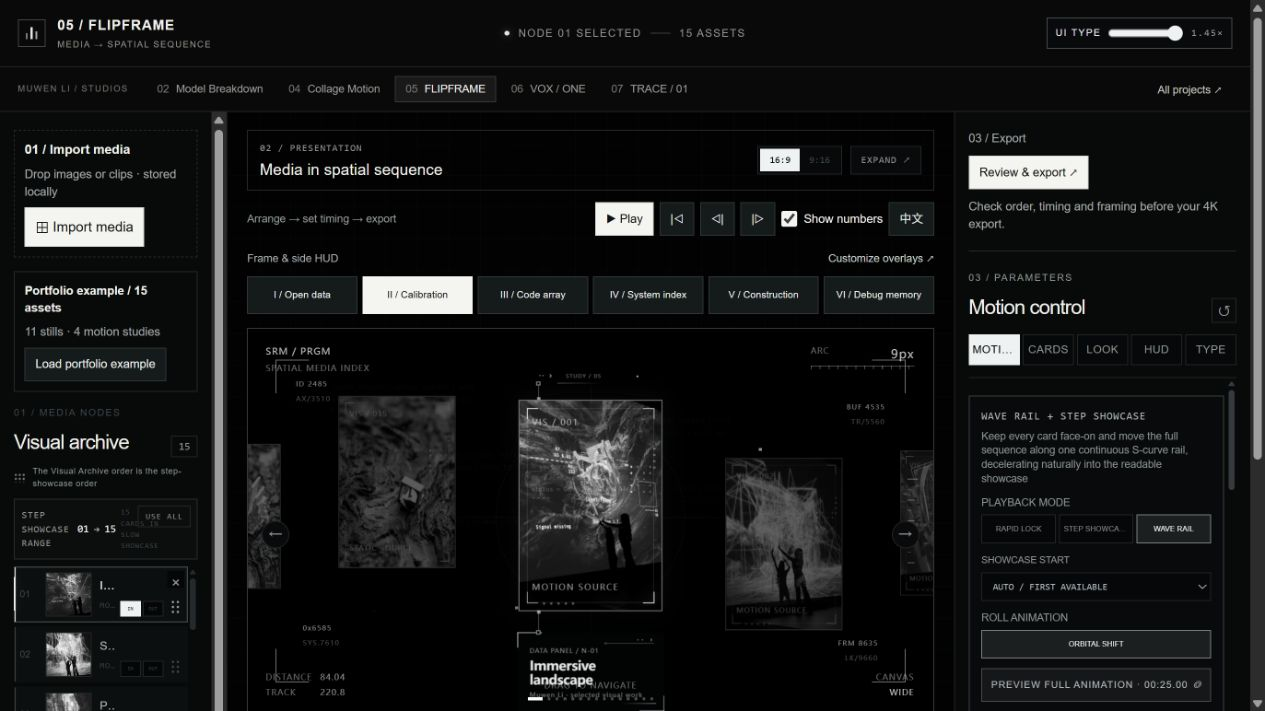
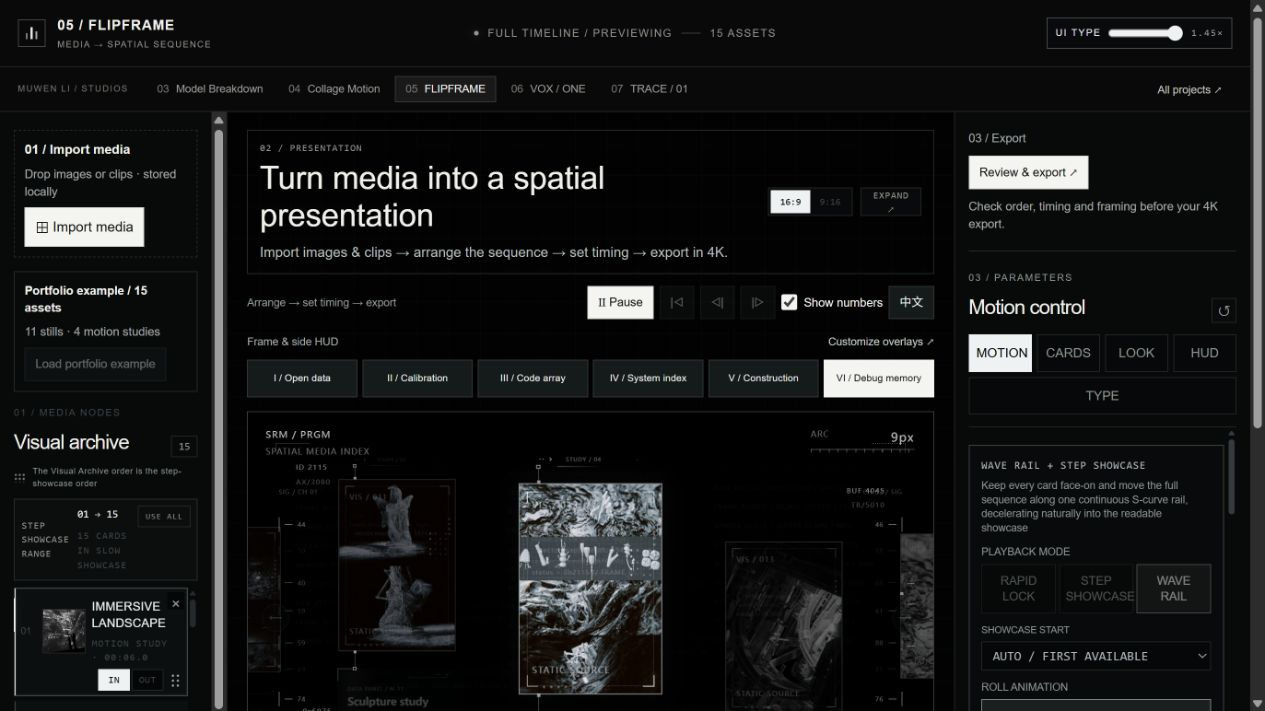
Clarify studio entrances, project order and delivery evidence

diff --git a/docs/collage-motion/index.html b/docs/collage-motion/index.html
@@ -9,7 +9,7 @@
   <div><h1>04 / COLLAGE MOTION <small>MOVING SHOTS → EDITABLE STORYBOARD</small></h1>
   <p><strong>Animated storyboard / shot review &amp; visual pitches.</strong> Compare moving shots, adjust the board, then export a silent review.</p></div>
   <nav class="portfolio-nav" aria-label="Project navigation"><a href="https://github.com/MuwenTriLi/creative-workflows/blob/main/projects/03-collage-motion.md">Project overview ↗</a><a href="https://github.com/MuwenTriLi/creative-workflows#selected-work">All projects ↗</a></nav>
-</header><nav class="family-nav" aria-label="Creative workflow studios"><span>MUWEN LI / STUDIOS</span><a href="https://meshroom-breakdown-studio.limuwen9.chatgpt.site"><b>02</b>Model Breakdown</a><a href="https://muwentrili.github.io/creative-workflows/collage-motion/" aria-current="page"><b>04</b>Collage Motion</a><a href="https://flipframe-motion-lab.limuwen9.chatgpt.site"><b>05</b>FLIPFRAME</a><a href="https://vox-one.limuwen9.chatgpt.site"><b>06</b>VOX / ONE</a><a href="https://trace-01-motion-tracker.limuwen9.chatgpt.site"><b>07</b>TRACE / 01</a></nav>
+</header><nav class="family-nav" aria-label="Creative workflow studios"><span>MUWEN LI / STUDIOS</span><a href="https://meshroom-breakdown-studio.limuwen9.chatgpt.site"><b>03</b>Model Breakdown</a><a href="https://muwentrili.github.io/creative-workflows/collage-motion/" aria-current="page"><b>04</b>Collage Motion</a><a href="https://flipframe-motion-lab.limuwen9.chatgpt.site"><b>05</b>FLIPFRAME</a><a href="https://vox-one.limuwen9.chatgpt.site"><b>06</b>VOX / ONE</a><a href="https://trace-01-motion-tracker.limuwen9.chatgpt.site"><b>07</b>TRACE / 01</a></nav>
 <div id="landscape-collage-editor" lang="zh-CN">
   <style>
     #landscape-collage-editor {
@@ -639,6 +639,7 @@
 </aside>
       <section class="stage-column" aria-label="画面预览与素材位置">
         <div class="workspace-heading"><strong>02 / 编排与预览</strong><span>调整右侧参数，再拖动时间轴检查效果。</span></div>
+        <div class="studio-purpose" style="padding:12px 0 18px"><h1 style="font:500 26px/1.2 Arial,Helvetica,sans-serif;margin:0 0 8px">在一张分镜板上比较动态镜头</h1><p style="font:14px/1.5 Arial,Helvetica,sans-serif;color:#b7c2bd;margin:0">导入片段 → 编排与标注镜头 → 比较动态 → 导出 4K 分镜板。</p></div>
         <div class="review-look" aria-label="Presentation overlays"><span>02 / Presentation</span><button type="button" id="rv-presentation" aria-pressed="true">Original HUD</button><button type="button" id="rv-clean" aria-pressed="false">Clean board</button><button type="button" id="rv-customize">Customize overlays ↗</button></div>
         <div class="review-page"><button type="button" id="rv-prev" aria-label="Previous board page">←</button><output id="rv-page-label">Shots 1–20 / 40</output><button type="button" id="rv-next" aria-label="Next board page">→</button><span>Shot IDs &amp; HUD are included in export.</span></div>
         <div class="board-mode" role="group" aria-label="Presentation mode"><button id="sb-storyboard" type="button" aria-pressed="true">Storyboard</button><button id="sb-collage" type="button" aria-pressed="false">Motion collage</button><span id="sb-mode-note">Compare shots side by side.</span></div>
@@ -1769,6 +1770,8 @@
       window.addEventListener("touchmove", markHeavyInteraction, { passive: true });
 
       const UI_TRANSLATIONS = {
+        "在一张分镜板上比较动态镜头": "Compare moving shots on one storyboard",
+        "导入片段 → 编排与标注镜头 → 比较动态 → 导出 4K 分镜板。": "Import clips → arrange and label shots → compare motion → export a 4K review board.",
         "01 / 导入素材": "01 / Import media",
         "03 / 导出": "03 / Export",
         "拖入图片或视频，或选择文件。下一个位置": "Drop images or clips here. Next slot",

diff --git a/README.md b/README.md
@@ -17,8 +17,8 @@ My focus is the connection between production craft and product decisions: autom
 | Project | Problem → approach | Format | Open |
 | --- | --- | --- | --- |
 | **01 · [Steampunk Clockwork](https://github.com/MuwenTriLi/steampunk-clockwork-showcase)** | Repeated mechanical setup → reusable assemblies & editable motion | Blender assets + Skill | [Superhive product ↗](https://superhivemarket.com/products/steampunk-clockwork-animated-assets) |
-| **02 · [Model Breakdown Studio](https://github.com/MuwenTriLi/model-breakdown-studio)** | Hard-to-read 3D assemblies → explode, isolate & explain | MIT code + browser tool | [Open web app ↗](https://meshroom-breakdown-studio.limuwen9.chatgpt.site) |
-| **03 · [Blue / White Architecture Growth](projects/blue-white-architecture-growth.md)** | Company aesthetics → reusable styling & staged construction | Company workflow case | [Watch selected films](docs/architecture-growth-media.md#watch-the-selected-films) |
+| **02 · [Blue / White Architecture Growth](projects/blue-white-architecture-growth.md)** | Company aesthetics → reusable styling & staged construction | Company workflow case | [Watch selected films](docs/architecture-growth-media.md#watch-the-selected-films) |
+| **03 · [Model Breakdown Studio](https://github.com/MuwenTriLi/model-breakdown-studio)** | Hard-to-read 3D assemblies → explode, isolate & explain | MIT code + browser tool | [Open web app ↗](https://meshroom-breakdown-studio.limuwen9.chatgpt.site) |
 | **04 · [Collage Motion](projects/03-collage-motion.md)** | Scattered shot previews → an editable moving storyboard | Browser tool | [Open web app ↗](https://muwentrili.github.io/creative-workflows/collage-motion/) |
 | **05 · [FLIPFRAME](projects/04-flipframe.md)** | Media sequencing & pacing → editable spatial presentation | Browser tool | [Open web app ↗](https://flipframe-motion-lab.limuwen9.chatgpt.site) |
 | **06 · [VOX / ONE](projects/05-vox-one.md)** | Speech/type synchronization → editable timed typography | Browser tool | [Open web app ↗](https://vox-one.limuwen9.chatgpt.site) |
@@ -26,7 +26,7 @@ My focus is the connection between production craft and product decisions: autom
 
 **Current review:** bounded exports were checked for Model Breakdown and VOX. The revised Collage 35-shot 4K board and FLIPFRAME 4K sequences pass their stated timing checks. TRACE retains an export-timing issue. [Read the exact scope](docs/functional-review.md).
 
-**Try first:** Model Breakdown Studio opens with Wood House and offers three supplied GLB examples, plus local import. Collage Motion opens with 35 selected moving shots and six original white HUD styles. FLIPFRAME opens with 15 supplied visuals; VOX offers a silent typography demo; TRACE offers a video with a static pin. Each has a visible import action and a public entrance. The demos illustrate their workflows; they do not substitute for real-speech or tracking validation. Architecture Growth presents completed illoca work and its production method; company source and Skill files are not distributed.
+**Try first:** Model Breakdown Studio opens with Press Manufacturing Line in an exploded view and offers three supplied GLB examples, plus local import. Collage Motion opens with 35 selected moving shots and six original white HUD styles. FLIPFRAME opens by playing Orbital Shift with 15 supplied visuals; VOX offers a silent typography demo; TRACE starts with an empty import canvas: choose your video, then select target 01 or position a static anchor. Each has a visible import action and a public entrance. The demos illustrate their workflows; they do not substitute for real-speech or tracking validation. Architecture Growth presents completed illoca work and its production method; company source and Skill files are not distributed.
 
 ## 01 / Clockwork — detail preview
 
@@ -44,35 +44,47 @@ My design direction and model collection became a reusable Blender library, with
 
 [Full case study](https://github.com/MuwenTriLi/steampunk-clockwork-showcase) · [Control reference](https://github.com/MuwenTriLi/steampunk-clockwork-showcase/blob/main/docs/controls.md) · [Workflow + Skill](https://github.com/MuwenTriLi/steampunk-clockwork-showcase/blob/main/docs/workflow-skill.md)
 
-## 02 / Model Breakdown Studio — interactive preview
+## 02 / Architecture Growth — company production case
 
-<table>
-<tr>
-<td width="48%" valign="top"><a href="https://meshroom-breakdown-studio.limuwen9.chatgpt.site"><img src="https://raw.githubusercontent.com/MuwenTriLi/model-breakdown-studio/main/docs/media/example-library.png" alt="Model Breakdown Studio with three GLB examples and selected production-line component" width="420"></a></td>
-<td width="52%" valign="top"><b>Turn a 3D model into an explanation.</b><br><br>Inspect components, compose an exploded view, highlight parts and arrange motion.<br><br><b><a href="https://meshroom-breakdown-studio.limuwen9.chatgpt.site">Open the interactive app →</a></b><br>No sign-in required. Choose Wood House or either production line, or import your own GLB.<br><br><a href="https://github.com/MuwenTriLi/model-breakdown-studio">Read the case study</a> · <a href="https://github.com/MuwenTriLi/model-breakdown-studio#try-it-in-one-minute">One-minute walkthrough</a></td>
-</tr>
-</table>
+**A shared visual direction · Staged construction · Detail at architectural scale**
 
 <table><tr>
-<td width="50%" align="center"><a href="https://github.com/MuwenTriLi/model-breakdown-studio/blob/main/showcase/README.md"><img src="https://raw.githubusercontent.com/MuwenTriLi/model-breakdown-studio/main/showcase/media/structure-smooth.webp" height="220" alt="Architectural system breakdown output"></a><br><sub>Finished AEC output / structural emphasis</sub></td>
-<td width="50%" align="center"><a href="https://github.com/MuwenTriLi/model-breakdown-studio/blob/main/showcase/README.md"><img src="https://raw.githubusercontent.com/MuwenTriLi/model-breakdown-studio/main/showcase/media/residence.jpg" height="220" alt="Residential exploded view"></a><br><sub>Component relationships / selected output</sub></td>
+<td width="46%" align="center" valign="top"><a href="docs/architecture-growth-media.md#watch-the-selected-films"><img src="media/architecture-growth/detail-c-smooth.webp" height="210" alt="Building growth with surrounding urban context"></a><br><b>Building & context</b><br><sub>A consistent blue-white visual language</sub></td>
+<td width="27%" align="center" valign="top"><a href="projects/blue-white-architecture-growth.md"><img src="media/architecture-growth/tennis-plan-smooth.webp" height="210" alt="Tennis venue plan and staged structure"></a><br><b>Plan to structure</b><br><sub>Spatial reference before visual density</sub></td>
+<td width="27%" align="center" valign="top"><a href="docs/architecture-growth-media.md#watch-the-selected-films"><img src="media/architecture-growth/detail-a-smooth.webp" height="210" alt="Floor and facade construction detail"></a><br><b>Detail & assembly</b><br><sub>Readable systems and construction order</sub></td>
 </tr></table>
 
-## 03 / Architecture Growth — company production case
+As Creative Content Director at **illoca**, I turn a shared architectural aesthetic into a repeatable Blender production method, refined across detail, tower and tennis-venue studies. This case presents completed visuals and high-level decisions; company source scenes and internal Skills remain private.
+
+[Full case study](projects/blue-white-architecture-growth.md) · [Selected films](docs/architecture-growth-media.md#watch-the-selected-films) · [Creator controls and validation](projects/blue-white-architecture-growth.md#the-production-problem)
+
+## 03 / Model Breakdown Studio — model to explanation
+
+**Inspect the input · Separate its systems · Explain a component in context**
 
 <table><tr>
-<td width="40%" align="center"><a href="projects/blue-white-architecture-growth.md"><img src="media/architecture-growth/tennis-plan-smooth.webp" height="220" alt="Tennis venue plan develops into architectural scene"></a></td>
-<td width="60%" valign="top"><b>Company aesthetics → a repeatable production method.</b><br><br>As Creative Content Director at <b>illoca</b>, I direct a shared architectural visual language and an internal Blender workflow, refined across detail, tower and tennis-venue studies.<br><br><a href="projects/blue-white-architecture-growth.md">Read the case and control decisions</a> · <a href="docs/architecture-growth-media.md#watch-the-selected-films">Watch the selected films</a><br><br><sub>Company portfolio presentation. Completed visuals and high-level method only; no company Skill, source scenes or reuse license.</sub></td>
+<td width="46%" align="center" valign="top"><a href="https://meshroom-breakdown-studio.limuwen9.chatgpt.site"><img src="media/model-breakdown-editor.png" height="210" alt="Model Breakdown Studio: Press Manufacturing Line opens in an exploded view"></a><br><b>Interactive studio</b><br><sub>Choose a GLB · explode · highlight · export</sub></td>
+<td width="27%" align="center" valign="top"><a href="https://github.com/MuwenTriLi/model-breakdown-studio/blob/main/showcase/README.md"><img src="https://raw.githubusercontent.com/MuwenTriLi/model-breakdown-studio/main/showcase/media/structure-smooth.webp" height="210" alt="Architectural system breakdown output"></a><br><b>Separate the systems</b><br><sub>Structural hierarchy</sub></td>
+<td width="27%" align="center" valign="top"><a href="https://github.com/MuwenTriLi/model-breakdown-studio/blob/main/showcase/README.md"><img src="https://raw.githubusercontent.com/MuwenTriLi/model-breakdown-studio/main/showcase/media/residence.jpg" height="210" alt="Residential exploded view"></a><br><b>Explain a detail</b><br><sub>Part-to-whole relationships</sub></td>
 </tr></table>
+
+Turn a multi-part model into a readable explanation for AEC and industrial design. The public app starts with **Press Manufacturing Line**, already exploded; switch to Wood House or Car Production Line, or import your own GLB. Compare assembled and exploded views, select a component, then review the output settings before rendering.
+
+[Open the studio →](https://meshroom-breakdown-studio.limuwen9.chatgpt.site) · [Full case study](https://github.com/MuwenTriLi/model-breakdown-studio) · [One-minute walkthrough](https://github.com/MuwenTriLi/model-breakdown-studio#try-it-in-one-minute) · [4K export guide](docs/studio-delivery.md)
 
 ## 04–07 / One studio family, four creative problems
 
 A shared visual language follows Model Breakdown: default Arial/Helvetica typography, a dark canvas, rectangular controls, and visible input → local correction → output. The numbered navigation connects the tools. The creative responsibility stays specific to each one.
 
-| [Collage Motion](projects/03-collage-motion.md) | [FLIPFRAME](projects/04-flipframe.md) | [VOX / ONE](projects/05-vox-one.md) | [TRACE / 01](projects/06-trace-01.md) |
-| --- | --- | --- | --- |
-| [![Thirty-five moving shots with white original HUD](media/collage-review-board.jpg)](projects/03-collage-motion.md) | [![Spatial media editor](media/flipframe-editor.png)](projects/04-flipframe.md) | [![Timed typography editor](media/vox-one-editor.png)](projects/05-vox-one.md) | [![Tracking editor](media/trace-01-editor.png)](projects/06-trace-01.md) |
-| Shot review & moving storyboard | Sequence & pacing | Speech & type | Tracking & annotation |
+| 04 / Collage Motion | 05 / FLIPFRAME |
+| --- | --- |
+| [![Thirty-five moving shots with original white HUD](media/collage-review-board.jpg)](projects/03-collage-motion.md) | [![Orbital Shift spatial media sequence](media/flipframe-editor.png)](projects/04-flipframe.md) |
+| **Compare moving shots.** Arrange, caption and revise one storyboard cell at a time. [Open board →](https://muwentrili.github.io/creative-workflows/collage-motion/) | **Sequence a visual presentation.** Start with Orbital Shift, adjust the order and timing, then render. [Open studio →](https://flipframe-motion-lab.limuwen9.chatgpt.site) |
+
+| 06 / VOX / ONE | 07 / TRACE / 01 |
+| --- | --- |
+| [![Timed typography editor](media/vox-one-editor.png)](projects/05-vox-one.md) | [![TRACE import-first workspace](media/trace-01-editor.png)](projects/06-trace-01.md) |
+| **Make speech readable.** Review timed typography and correct individual words. [Open studio →](https://vox-one.limuwen9.chatgpt.site) | **Explain a moving subject.** Import your footage, select target 01 or choose a fixed anchor, then review the path. [Open studio →](https://trace-01-motion-tracker.limuwen9.chatgpt.site) |
 
 These are the updated working studios. [Watch actual Collage and FLIPFRAME outputs, plus the supplied design demos](https://muwentrili.github.io/creative-workflows/collage-motion/process/). Each case explains the problem, creator controls, delivery checks and validation still needed. No measured efficiency or user-study results are claimed.
 

diff --git a/docs/functional-review.md b/docs/functional-review.md
@@ -6,14 +6,15 @@ These are bounded checks on Windows in the Codex in-app Chromium browser. They a
 
 ## Latest studio revision / 23 October
 
-Projects 04–07 now share Model Breakdown's font, numbered navigation and workspace language. English is the default; a Chinese switch is available. Local builds and TypeScript checks passed for FLIPFRAME, VOX and TRACE. These presentation changes do not erase the earlier functional limits recorded below.
+Projects 04–07 now share Model Breakdown's font, numbered navigation and workspace language. English is the default; a Chinese switch is available. Local builds and TypeScript checks passed for FLIPFRAME, VOX and TRACE. The latest entrances state each tool’s input, main action and output. FLIPFRAME starts Orbital Shift; TRACE starts empty. Model Breakdown uses one public name and a larger, prominent explode control. These presentation changes do not erase the earlier functional limits recorded below.
 
 | Current check | Result | Remaining boundary |
 | --- | --- | --- |
+| Model Breakdown / Press Manufacturing Line | Default 32-part model opens at 1500% explode. Actual local-browser H.264 export: 3840 × 2160, 30 fps, 60 decoded frames, 2.000 s; complete decode passes | This is a two-second technical check. Long sequences, the other two real inputs, all camera angles and other physical devices are not certified |
 | Collage selected 35-shot example | Actual 4K H.264 export: 8 s, 24 fps, 192 frames. All frames decode; image-content checks across all 35 tile interiors show motion rather than a frozen board | Uploaded libraries, many independent video decoders and other devices still require stress testing. The built-in example uses one preview atlas and a higher-resolution export atlas |
 | FLIPFRAME revised direct encoder | Two-card 7.45 s / 447 frames and full 25 s / 1,500 frames; both 4K / 60 fps. Sampled frames show the new media and HUD | Long encoding can make the browser unresponsive. Compatibility capture, 6K/8K and other devices are not revalidated |
 | VOX initial example | Eight-second authored silent typography example, with live style controls | This is not a fresh speech-recognition or export test; the earlier synthetic-speech result below has a separate scope |
-| TRACE initial example | Supplied 4.5 s video, autoplay and static-pin controls | Static annotation is not proof of tracking. The previous encoded timing failure remains unresolved |
+| TRACE import-first entrance | No bundled video. Local synthetic clip imports paused with a visible first frame; no target is chosen automatically. Basic moving-target playback and explicit anchor placement checked | Difficult motion and occlusion are not benchmarked. The previous encoded timing failure remains unresolved |
 
 The Collage 4K fix loads the export atlas as a seekable local Blob before frame sampling. An earlier non-seekable media response had produced repeated image content even while the HUD moved. The acceptance check therefore inspects the shot interiors, not just the container duration. FLIPFRAME now considers a supported no-preference WebCodecs configuration before falling back to real-time recording.
 
@@ -26,8 +27,8 @@ The table and reproduction notes below describe the earlier source revisions, be
 | Case | What was actually exercised | Observed result | Boundary |
 | --- | --- | --- | --- |
 | 01 Clockwork | Original supplied linework, render and viewport recordings; separate presentation derivatives | Paired stills and two workflow clips prepared; 6 s / 9 s H.264 viewing copies decode fully | No fresh Blender driver or end-to-end Skill execution in this review |
-| 02 Model Breakdown | Original hosted app: three-part synthetic GLB → orientation/explode/selection → 2 s export. Later, supplied Wood House / Press Manufacturing Line / Car Production Line: loading, switching/cancel, explode, selection; local Wood House file import | Synthetic export: H.264, 3840 × 2160, 30 fps, 60 frames, 2.000 s, full decode. Three real inputs retain 18 / 32 / 30 named parts; 19 tests and production build pass. [Library check](https://github.com/MuwenTriLi/model-breakdown-studio/blob/main/docs/example-model-review.md) | Full export and continuous-frame quality from the three real inputs remain unverified. Four supplied architectural films are separate final-output evidence, not newly reproduced exports |
-| 03 Architecture Growth | Newly supplied completed illoca films, selected frame extraction and presentation-copy decoding | Tennis, detail, tower and office visuals now accompany the method; MP4/GIF viewing copies decode | No new Blender render, internal Skill execution or comprehensive original-scene verification; local correction recording still pending |
+| 03 Model Breakdown | Original hosted app: three-part synthetic GLB → orientation/explode/selection → 2 s export. Later, supplied Wood House / Press Manufacturing Line / Car Production Line: loading, switching/cancel, explode, selection; local Wood House file import | Synthetic export: H.264, 3840 × 2160, 30 fps, 60 frames, 2.000 s, full decode. Three real inputs retain 18 / 32 / 30 named parts; 19 tests and production build pass. [Library check](https://github.com/MuwenTriLi/model-breakdown-studio/blob/main/docs/example-model-review.md) | Full export and continuous-frame quality from the three real inputs remain unverified. Four supplied architectural films are separate final-output evidence, not newly reproduced exports |
+| 02 Architecture Growth | Newly supplied completed illoca films, selected frame extraction and presentation-copy decoding | Tennis, detail, tower and office visuals now accompany the method; MP4/GIF viewing copies decode | No new Blender render, internal Skill execution or comprehensive original-scene verification; local correction recording still pending |
 | 04 Collage Motion | Supplied 40-clip library, 20-shot default presentation with source captions and board paging, sample switching, single-cell replacement, local test-image import and replacement/cancel gate; earlier mixed-proportion image and timeline checks | New 20-shot board export: H.264, 1920 × 1080, 24 fps, 192 frames, 8.000 s; full decode; source captions and review framing included. All 40 viewing copies decode | One browser/configuration; large visitor videos, long projects, 4K and an unassisted creator session remain to check |
 | 05 FLIPFRAME | Import a synthetic 4 s clip; trim that clip to 2 s; set a two-card showcase; export 4K | The UI expected 4.65 s. The downloaded H.264 compatibility-path file is **95.0367 s**, with 278 decoded frames and average frame rate about 2.96 fps. **Timing acceptance fails.** | This is one environment/configuration. A completion message is not evidence of a timing-correct export. Existing archive media was not republished |
 | 06 VOX / ONE | Import 7.55 s local synthetic English speech → automatic transcript → punctuation correction → Confirm & Apply → Build 2 Lines → MP4 | All 16 spoken words matched this fixture. Punctuation-only edit preserved displayed word times. H.264 4K / 30 fps / 227 frames with AAC audio; container 7.5733 s; full decode passes | Not a speech accuracy benchmark. No proper-noun/noise/accent test, precise perceptual sync measurement, alpha export or NLE round trip |
@@ -64,3 +65,9 @@ Encoded files were inspected with ffprobe and decoded with FFmpeg while retainin
 ## 2026-10-23 / Moving storyboard update
 
 The sample-board file was exported from the actual Collage editor. Native-frame-rate, 640 × 360 viewing copies replace the need to load 40 original 4K clips. The default now loads all 40 viewing copies into the order list and displays 20 at a time; only visible sources play. The latest export includes review overlays and captions. Decode and frame checks do not measure the filmmaker’s communication quality or general device performance. [Case and next test](../projects/03-collage-motion.md).
+
+## First-visit acceptance scope
+
+The revised Model, FLIPFRAME, VOX and TRACE production builds completed locally. FLIPFRAME, VOX and TRACE pass TypeScript. Model’s 19 geometry, integrity and application checks pass; its whole-repository TypeScript command still encounters the pre-existing Cloudflare worker declarations described in the model-library review. UI review used a 1280-pixel desktop browser. Anonymous public entry and asset loading are checked after publication; no claim is made that every physical computer performs identically.
+
+See the [first task and export guide](studio-delivery.md) for the actions a reviewer can follow.

diff --git a/docs/studio-delivery.md b/docs/studio-delivery.md
@@ -1,0 +1,38 @@
+# First task → review → export
+
+[All projects](../README.md) · [Test results and known limits](functional-review.md)
+
+Each studio has one primary task. Use the opening example to understand the output, then replace the input with your own work. TRACE starts empty because a tracking target must come from the creator's footage.
+
+| Studio | Input | First useful action | Output |
+| --- | --- | --- | --- |
+| [03 Model Breakdown](https://meshroom-breakdown-studio.limuwen9.chatgpt.site) | A GLB with separate named parts | Compare Assembled / Exploded view; select a component | An explanatory model animation |
+| [04 Collage Motion](https://muwentrili.github.io/creative-workflows/collage-motion/) | Clips or images | Compare the 35-shot board; replace one cell, adjust spacing and captions | A moving storyboard for shot review |
+| [05 FLIPFRAME](https://flipframe-motion-lab.limuwen9.chatgpt.site) | Images and clips | Pause Orbital Shift; arrange the archive and set readable holds | A spatial media presentation |
+| [06 VOX / ONE](https://vox-one.limuwen9.chatgpt.site) | English speech in audio/video | Import, check the transcript, correct words and timing, then Confirm & Apply | Timed typography with the source audio |
+| [07 TRACE / 01](https://trace-01-motion-tracker.limuwen9.chatgpt.site) | Your video | Find a clear frame, click target 01 or choose Position anchor and click a location | Numbered motion annotation with a path and HUD |
+
+## Model Breakdown: a first 4K export
+
+1. The app loads **Press Manufacturing Line**, with its 32 named parts separated. Compare the two states using **Assembled** and **Exploded view**. The slider controls separation continuously.
+2. Select a component in the left list. Pause **ROTATE** to inspect a detail, or keep it on for a turntable. Use the timeline when an emphasis must occur at a particular moment.
+3. Choose **EXPORT 4K**. This opens the output panel so you can review the aspect, duration and frame rate before rendering.
+4. For landscape, select **16:9 / 3840 × 2160**, then **RENDER**. Allow the tab to finish and save the MP4.
+5. Play the downloaded file. Check the beginning, middle and end for cropping, readable emphasis, continuity and correct duration. A completion toast is not the acceptance check.
+
+The revised Press model completed an actual two-second, 4K30 H.264 export: 60 decoded frames, 2.000 seconds, full decode without errors. This is a short technical check, not certification of every model or long sequence.
+
+## Review controls before delivery
+
+- **Collage:** keep shot numbers visible; check captions, spacing and movement inside every cell. Review & export opens resolution and timing controls. The selected example uses an optimized preview atlas; imported high-resolution clips can require more resources.
+- **FLIPFRAME:** the opening 25-second sequence demonstrates Orbital Shift. Pause to edit; replay the full sequence to inspect order, transitions and holds. Choose Review & export, select 4K and render. The direct encoder has verified 4K60 sample outputs; the compatibility capture path has a separately recorded timing limitation.
+- **VOX:** the opening animation is a silent, authored example. Import English speech to generate a transcript locally, review the words and apply corrections. Use Premiere MP4 for black-background H.264/AAC; the optional transparent WebM path has a separate validation scope.
+- **TRACE:** importing a video does not create an anchor. Click to select one, play to inspect whether it follows the intended subject, and use Position anchor for a fixed annotation. Review & export exposes output settings. The earlier real-time export did not preserve its stated frame-rate/timing contract; treat TRACE output as a prototype until that issue is resolved.
+
+## Opening on another computer
+
+Use the public HTTPS links above; a local file path or this computer's saved board is not required. The provided Model, Collage and FLIPFRAME examples load from public presentation assets. A visitor's own media is imported into that browser. VOX downloads public speech-model weights on first use, so that first transcription can take longer.
+
+Editing speed and 4K encoding depend on the browser, codec support, GPU, memory and input size. The desktop-browser checks are recorded precisely in the functional review. Other physical computers, mobile browsers and large user libraries still need testing; identical performance is not claimed.
+
+For a useful creator test, ask an unfamiliar person to complete one row in the table, make one local correction and inspect one export. Record where they hesitate and any help needed. Only add completion times, rework counts or quality scores after that test actually happens.

diff --git a/docs/evidence-to-add.md b/docs/evidence-to-add.md
@@ -7,8 +7,8 @@ The next useful addition is an input → decision → local correction → check
 | Case | Minimum creative material | Process to record | What it proves / next decision |
 | --- | --- | --- | --- |
 | 01 Clockwork | One named assembly, its original state and a 10–15 s adapted shot | 60–90 s: state a brief, adjust one speed/phase, inspect linked parts, correct a problem, review the final encoded loop | Design standards became reusable controls. Add a separate fresh Skill run with inputs, changed settings and checks before claiming autonomous reuse |
-| 02 Model Breakdown | Four architectural films, detail stills and three named GLB examples are now supplied. Next: explicit model credits, a chosen focal component and one checked real-input export | Import/orient → assembled/exploded → select one part → correct framing or timing → export | Real geometry preserves relationships and the explanation. Include one fused-mesh or naming limitation |
-| 03 Architecture Growth | Selected completed illoca films and matching frames now supplied; role: Creative Content Director. Next: one approved before/after and precise shot contribution credits | Identify a construction-order or continuity problem; show one local fix with adjacent frames | Production judgment and style consistency. Present the finished films and high-level method; keep company source, exact style configuration and internal Skill private |
+| 03 Model Breakdown | Four architectural films, detail stills and three named GLB examples are now supplied. Next: explicit model credits, a chosen focal component and one checked real-input export | Import/orient → assembled/exploded → select one part → correct framing or timing → export | Real geometry preserves relationships and the explanation. Include one fused-mesh or naming limitation |
+| 02 Architecture Growth | Selected completed illoca films and matching frames now supplied; role: Creative Content Director. Next: one approved before/after and precise shot contribution credits | Identify a construction-order or continuity problem; show one local fix with adjacent frames | Production judgment and style consistency. Present the finished films and high-level method; keep company source, exact style configuration and internal Skill private |
 | 04 Collage Motion | 35 selected BITFLIP clips, an eight-second 4K board and three supplied design demos are now available. Next: one real shot-review brief and an explained local revision | Sample board → replace with own clips → revise spacing or one shot → inspect output | First-use clarity and local correction. Ask an unfamiliar creator to do it without coaching; record confusion and assistance |
 | 05 FLIPFRAME | 15 approved visuals and a timing-correct 25 s 4K sequence are now supplied. Next: an explicit reading-order brief and one explained local correction | Adjust a single crop/hold, show slow-showcase IN/OUT and explain that the introductory scan includes the archive | Readability and pacing. Test viewer readability and compatibility capture; the revised direct 4K path has bounded timing checks |
 | 06 VOX / ONE | 10–20 s authorized English voice, exact transcript including a name/pause, two visual treatments and output | Correct one genuine transcription/phrasing issue → confirm → compare timestamp/phrase layout → check against audio | Automatic draft with creator authority over meaning. Test names/noise and an editor round trip; synthetic clean speech is insufficient |

diff --git a/docs/review-guide.md b/docs/review-guide.md
@@ -19,8 +19,8 @@ The other projects explore different problems. They do not need to appear equall
 | Project | Evidence available now | Important missing proof | Current decision |
 | --- | --- | --- | --- |
 | **01 · [Clockwork](https://github.com/MuwenTriLi/steampunk-clockwork-showcase/blob/main/docs/production-case.md)** | Commercial library, original renders, motion excerpts, controller documentation and instruction Skill | One freshly recorded adaptation from brief to checked output; an unfamiliar creator repeating it | Lead with the existing product. **Iterate** the agent-assisted adaptation before expanding it. |
-| **02 · [Model Breakdown](https://github.com/MuwenTriLi/model-breakdown-studio/blob/main/docs/product-case.md)** | Four architectural output films and stills; three selectable real GLBs with loading, explode and selection checks; a separate synthetic GLB export check; MIT repository code | A process recording connecting a real input to the selected output, one framing correction and an unfamiliar creator task | **Iterate** the import-to-delivery path before claiming general model support. |
-| **03 · [Architecture Growth](../projects/blue-white-architecture-growth.md)** | Completed illoca tennis/detail/tower/office visuals; director role and internal-method explanation | An approved local correction recording, shot-level credits and repeatability observation | **Develop the production case** around creator control. Company source and internal Skill remain private. |
+| **02 · [Architecture Growth](../projects/blue-white-architecture-growth.md)** | Completed illoca tennis/detail/tower/office visuals; director role and internal-method explanation | An approved local correction recording, shot-level credits and repeatability observation | **Develop the production case** around creator control. Company source and internal Skill remain private. |
+| **03 · [Model Breakdown](https://github.com/MuwenTriLi/model-breakdown-studio/blob/main/docs/product-case.md)** | Four architectural output films and stills; three selectable real GLBs with loading, explode and selection checks; short synthetic and real Press-model 4K export checks; MIT repository code | A process recording connecting a real input to the selected output, one framing correction and an unfamiliar creator task | **Iterate** the import-to-delivery path before claiming general model support. |
 | **04 · [Collage Motion](../projects/03-collage-motion.md)** | 35-shot presentation, original white HUD styles, local shot replacement and an eight-second 4K / 24 fps export with motion verified in all 35 tiles | Unassisted first-use task; larger projects and mixed-media output quality checks | **Iterate** usability with creators before adding automatic editorial choices. |
 | **05 · [FLIPFRAME](../projects/04-flipframe.md)** | Updated 15-visual example; revised direct 4K exports match 7.45 s and 25 s timing | Viewer readability study, compatibility capture and long-project responsiveness | **Validate readability and compatibility** before expanding motion modes. |
 | **06 · [VOX / ONE](../projects/05-vox-one.md)** | Clean synthetic English transcription, confirmed punctuation correction and 4K H.264/AAC output | Real speech with names/noise, measured sync, alpha output and editor round trip | **Validate the core task** before expanding languages or automation. |

diff --git a/projects/02-meshroom.md b/projects/02-meshroom.md
@@ -1,14 +1,14 @@
-# Model Breakdown Studio / MESHROOM
+# Model Breakdown Studio
 
-**Portfolio 02 · Browser tool · MIT code · AEC and design explanation**
+**Portfolio 03 · Browser tool · MIT code · AEC and design explanation**
 
 Import a model, inspect its components, compose an exploded view and highlight sequence, and produce a presentation animation.
 
 ## [▶ Open the original interactive web app](https://meshroom-breakdown-studio.limuwen9.chatgpt.site)
 
-**Public access; no sign-in required. Wood House opens by default; three supplied GLB models are ready to explore.** The app opens on its own page; the GitHub case study is the presentation and documentation entry point.
+**Public access; no sign-in required. Press Manufacturing Line opens by default in an exploded view; three supplied GLB models are ready to explore.** The app opens on its own page; the GitHub case study is the presentation and documentation entry point.
 
-Start with **Exploded structure → 250%**, then select a named part in the left panel. Choose another model from **EXAMPLE MODELS** on the right, or use **IMPORT YOUR OWN GLB**. Switching asks before replacing your edits; imported files are processed locally in the browser. [Model-library checks and limits](https://github.com/MuwenTriLi/model-breakdown-studio/blob/main/docs/example-model-review.md).
+Compare **Assembled / Exploded view**, then select a named part in the left panel. Choose another model under **Change model · 3 examples** on the right, or use **IMPORT YOUR OWN GLB**. Switching asks before replacing your edits; imported files are processed locally in the browser. [Model-library checks and limits](https://github.com/MuwenTriLi/model-breakdown-studio/blob/main/docs/example-model-review.md).
 
 **[Read the GitHub project presentation](https://github.com/MuwenTriLi/model-breakdown-studio)**
 

diff --git a/projects/04-flipframe.md b/projects/04-flipframe.md
@@ -48,7 +48,7 @@ Use one ordered **Visual Archive** as the sequence source, with a spatial previe
 4. Use **Play / Pause** above the canvas, then scrub the timeline. Pause stops both the sequence and its source clips. Compare **Wave rail** and **Step showcase**, and adjust the hold or deceleration.
 5. Open **Review & export** on the right. Check the sequence order, reading time, framing and selected overlays before exporting.
 
-**Returning visitors:** an older architectural board is saved locally before the new portfolio example appears. **Resume saved board** restores its media and settings. Loading the example also preserves a current board containing imported media; it does not clear the media cache.
+**Opening behavior:** the supplied 15-asset collection starts its Orbital Shift sequence automatically. The toolbar pauses it; the full-animation control replays it. There is no Resume saved board prompt. Imported work is retained locally as a backup when switching to the example, but no recovery interface is currently exposed; export your work before leaving.
 
 ## Design contribution and reusable workflow
 
@@ -83,3 +83,5 @@ A short finished sequence and an A/B recording with identical media: change only
 ## Example-first workflow
 
 The opening example, visible Import action, shared studio navigation and English default are implemented. The creator can replace the supplied content or adjust one local choice. No automated story judgment, protected-card locking or revision rollback is claimed. Media rights remain separate from the application.
+
+The October 23 entrance refinement starts the full Orbital Shift sequence on a fresh visit, removes the saved-board prompt, and wraps Motion and asset labels. The output encoder is unchanged by this presentation revision.

diff --git a/projects/06-trace-01.md b/projects/06-trace-01.md
@@ -9,7 +9,7 @@ Make a moving target easier to follow by connecting its position to a readable p
 **[Open web app ↗](https://trace-01-motion-tracker.limuwen9.chatgpt.site)** · No sign-in required
 
 ![TRACE 01 video workspace, positioning mode and HUD inspector](../media/trace-01-editor.png)
-*The English-default studio opens with a supplied 4.5 s clip and a labeled static pin. This demonstrates annotation styling, not automatic tracking accuracy. Import your own clip to test Follow object; a Chinese interface switch is available.*
+*The English-default studio starts empty. Import your own video, pause on a clear frame, then click a subject for Target 01 tracking or choose Position anchor for a fixed annotation. No footage or anchor is selected for you. Playback, language and three white HUD presets sit above the preview; output controls sit on the right.*
 
 ## The smallest useful task
 

diff --git a/projects/blue-white-architecture-growth.md b/projects/blue-white-architecture-growth.md
@@ -1,6 +1,6 @@
 # Blue / White Architecture Growth
 
-**03 / Company production case · illoca · Creative Content Director: Muwen Li**
+**02 / Company production case · illoca · Creative Content Director: Muwen Li**
 
 **Turn a company's visual language into a repeatable architectural storytelling workflow.** A shared internal Skill supports white-model styling, blue-shadow hierarchy and staged construction in Blender; each building still needs its own component logic, framing and review.
 
